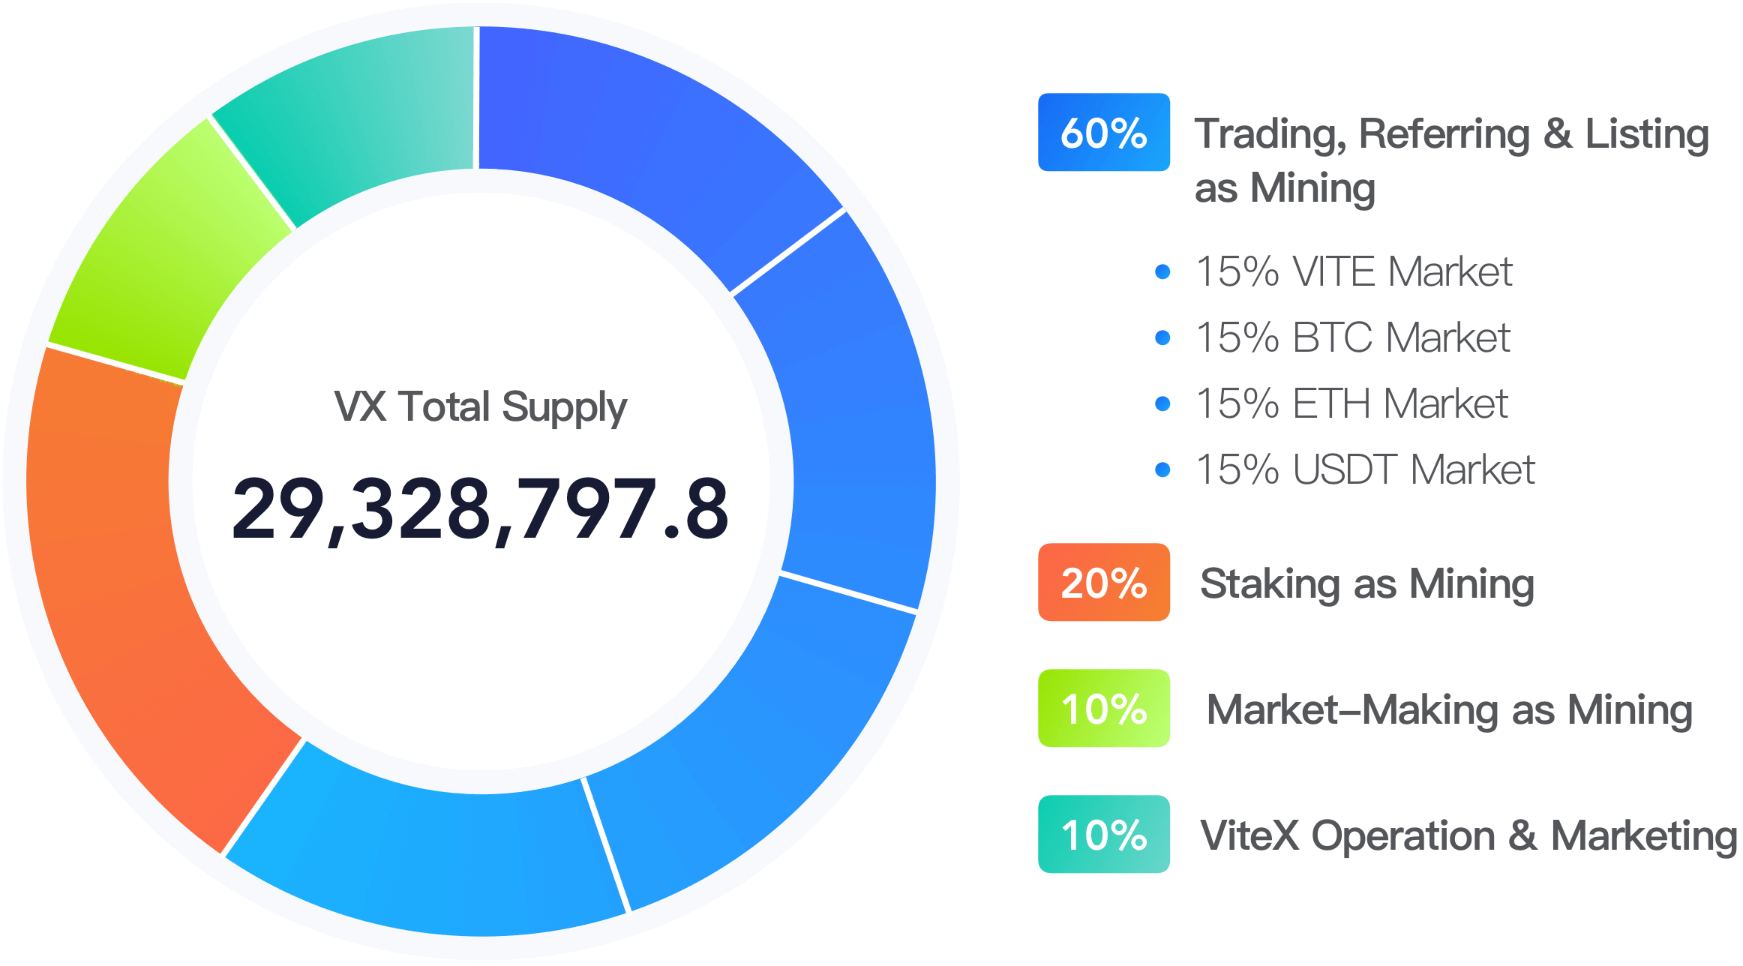
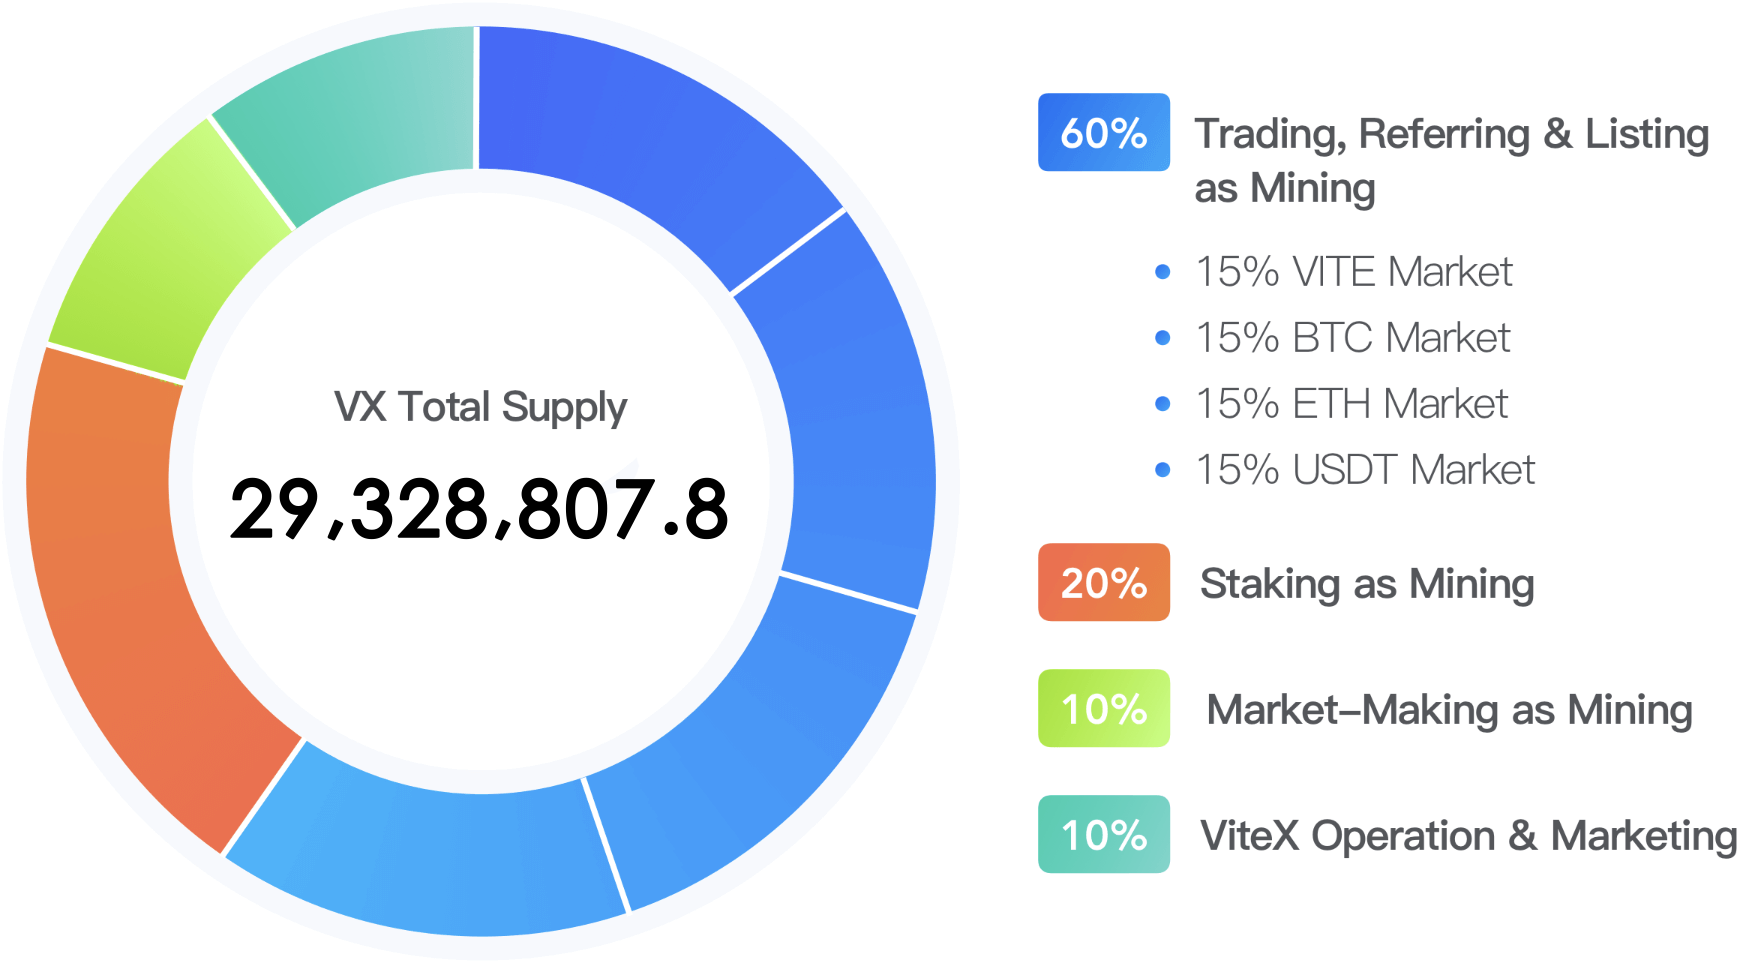
fix total supply

diff --git a/components/VitexInfo/Piechart.vue b/components/VitexInfo/Piechart.vue
@@ -72,10 +72,10 @@
         <div class="title">VX Release Schedule</div>
         <div class="content">
           <!-- <p class="bold">**Note: this release schedule is subject to change**</p> -->
-          <!-- <p><span class="bold">Total supply: </span>29328797.8 VX</p> -->
+          <!-- <p><span class="bold">Total supply: </span>29328807.8 VX</p> -->
           <div class="paragraph">
             <div class="bold">Dual Phase VX Release Model</div>
-            <div>After the official launch of VX mining, there will be two phases of VX release with the total supply set to 29328797.8 VX with no inflation.</div>
+            <div>After the official launch of VX mining, there will be two phases of VX release with the total supply set to 29328807.8 VX with no inflation.</div>
           </div>
           <p><span class="bold">Phase 1: </span>10,000 VX daily release for the first 88 days.</p>
           <p><span class="bold">Phase 2: </span>Daily release increases from 10,000 VX to 50,000 VX in the following 90 days, then start to decrease until being fully released after 8 years.</p>
